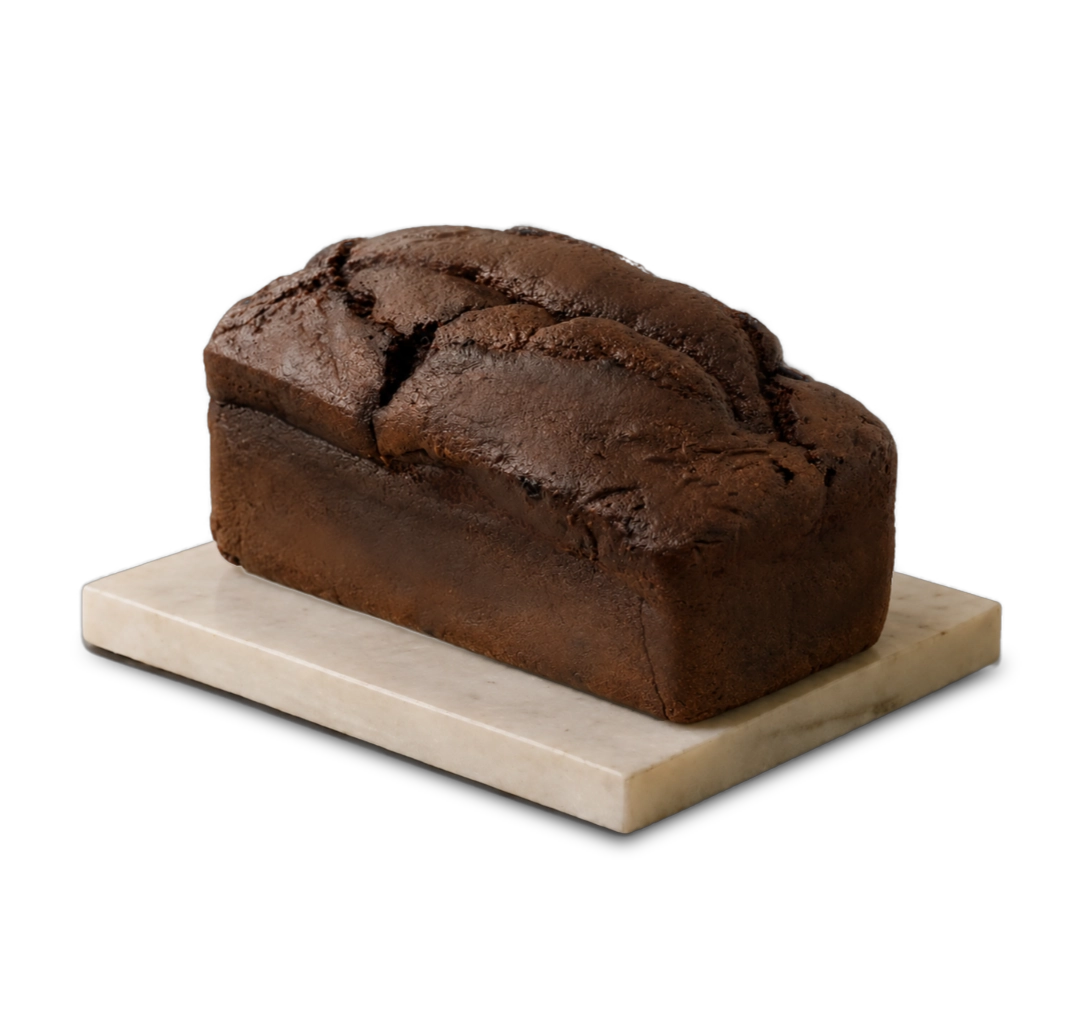
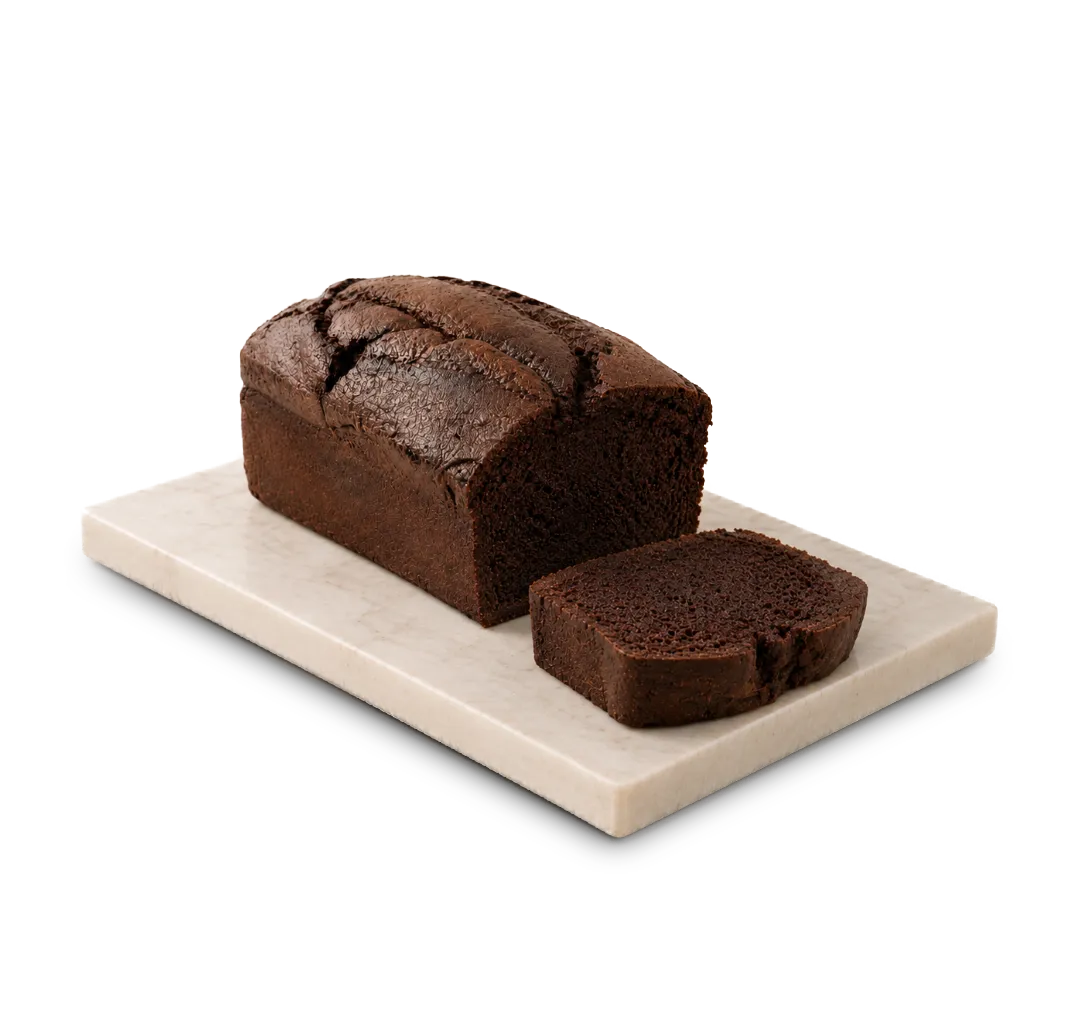
fix(au): refresh signature and brownie cake photography

Changed region(s): [[0.0611, 0.2144, 0.9472, 0.8577]]

diff --git a/src/pages/HomePage.tsx b/src/pages/HomePage.tsx
@@ -1,7 +1,6 @@
 import { useCallback, useEffect, useState, type CSSProperties, type PointerEvent } from 'react'
 import { CalendarDays, ChevronLeft, ChevronRight, Clipboard, MessageCircleCheck, Wallet } from 'lucide-react'
 import heroCake2Img from '../assets/hero-cake-2.webp'
-import heroCake3Img from '../assets/hero-cake-3.webp'
 import glutenFreeStampImg from '../assets/glutenfree.webp'
 import { ProductQuickViewDialog } from '../ProductQuickViewDialog'
 import PublicReviewsSection from '../PublicReviewsSection'
@@ -37,9 +36,9 @@ const heroVisuals: Partial<Record<CakeCatalogImageKey, { image?: string; tagKey:
   'pave-cake': { image: heroCake2Img, tagKey: 'first', className: 'hero-cake-two' },
   'buttercream-cake': { tagKey: 'buttercream', className: 'hero-cake-six' },
   'chocolate-cupcakes': { tagKey: 'cupcakes', className: 'hero-cake-seven' },
-  'signature-gateau-au-chocolat': { image: heroCake3Img, tagKey: 'pound', className: 'hero-cake-three' },
+  'signature-gateau-au-chocolat': { image: '/products/signature-gateau-au-chocolat-sydney.webp', tagKey: 'pound', className: 'hero-cake-three' },
   'lemon-cake': { image: getPublicCakePage('lemon-cake')?.imagePath, tagKey: 'lemon', className: 'hero-cake-four' },
-  'brownie-cheesecake': { image: '/products/brownie-cheese-sydney.webp', tagKey: 'brownie', className: 'hero-cake-one' },
+  'brownie-cheesecake': { image: '/products/brownie-cheesecake-sydney.webp', tagKey: 'brownie', className: 'hero-cake-one' },
 }
 
 export function HomePage({
@@ -66,9 +65,9 @@ export function HomePage({
   const [quickViewCardId, setQuickViewCardId] = useState<string | null>(null)
   const [quickViewOpener, setQuickViewOpener] = useState<HTMLButtonElement | null>(null)
   const legacyHeroCakes = [
-    { image: '/products/brownie-cheese-sydney.webp', label: 'Brownie Cheesecake', tagKey: 'brownie', className: 'hero-cake-one' },
+    { image: '/products/brownie-cheesecake-sydney.webp', label: 'Brownie Cheesecake', tagKey: 'brownie', className: 'hero-cake-one' },
     { image: heroCake2Img, label: 'Pave Chocolate Cake', tagKey: 'first', className: 'hero-cake-two' },
-    { image: heroCake3Img, label: 'Signature Gâteau au Chocolat', tagKey: 'pound', className: 'hero-cake-three' },
+    { image: '/products/signature-gateau-au-chocolat-sydney.webp', label: 'Signature Gâteau au Chocolat', tagKey: 'pound', className: 'hero-cake-three' },
     { image: getPublicCakePage('lemon-cake')?.imagePath, label: 'Lemon Cake', tagKey: 'lemon', className: 'hero-cake-four' },
     { image: getPublicCakePage('buttercream-cake')?.imagePath, label: 'Buttercream Cake', tagKey: 'buttercream', className: 'hero-cake-six' },
     { image: getPublicCakePage('chocolate-cupcakes')?.imagePath, label: 'Chocolate Cupcakes', tagKey: 'cupcakes', className: 'hero-cake-seven' },

diff --git a/src/CakeDetailPage.tsx b/src/CakeDetailPage.tsx
@@ -79,7 +79,7 @@ const detailImages: Record<CakeDetailImageKey, string> = {
   'signature-gateau-side': '/products/signature-gateau-au-chocolat-sydney.webp',
   'signature-gateau-detail': '/products/details/signature-gateau-au-chocolat-detail-01.webp',
   'signature-gateau-quick-view': '/products/details/chocolate-pound-cake-quick-view.webp',
-  'signature-gateau-previous': '/products/details/chocolate-pound-cake-previous.webp',
+  'signature-gateau-previous': '/products/details/signature-gateau-au-chocolat-previous-main.webp',
   'signature-gateau-hero': poundHeroImg,
   'fresh-strawberry-vanilla-cream-side': '/products/fresh-strawberry-vanilla-cream-cake-sydney.webp',
   'fresh-strawberry-vanilla-cream-detail': '/products/details/fresh-strawberry-vanilla-cream-cake-detail-01.webp',
